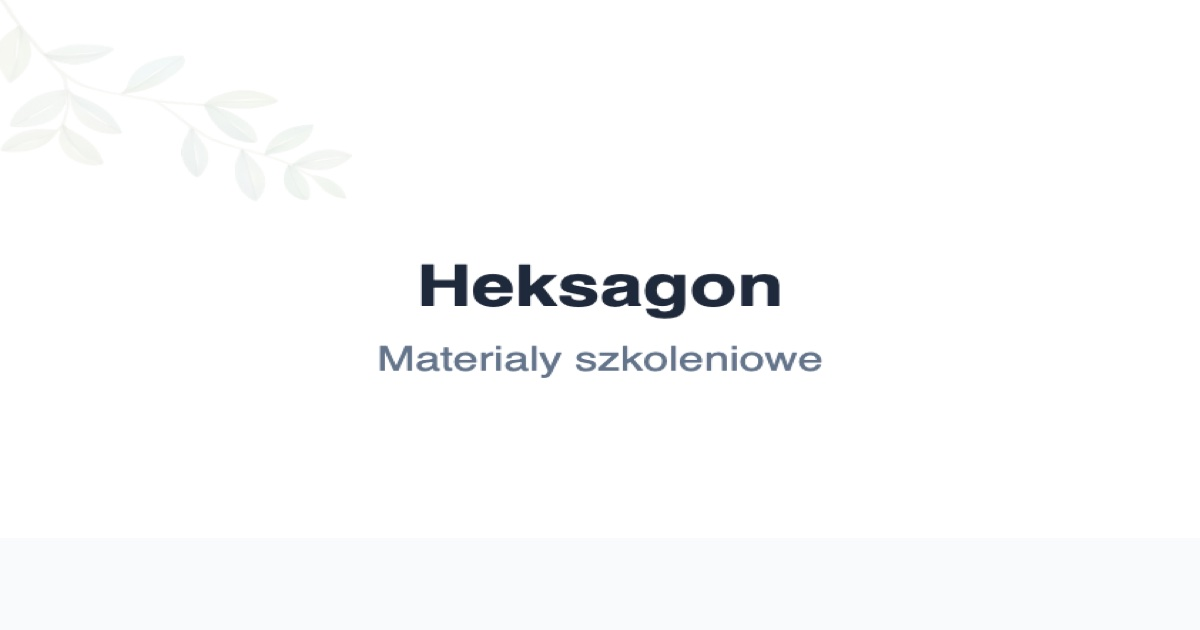
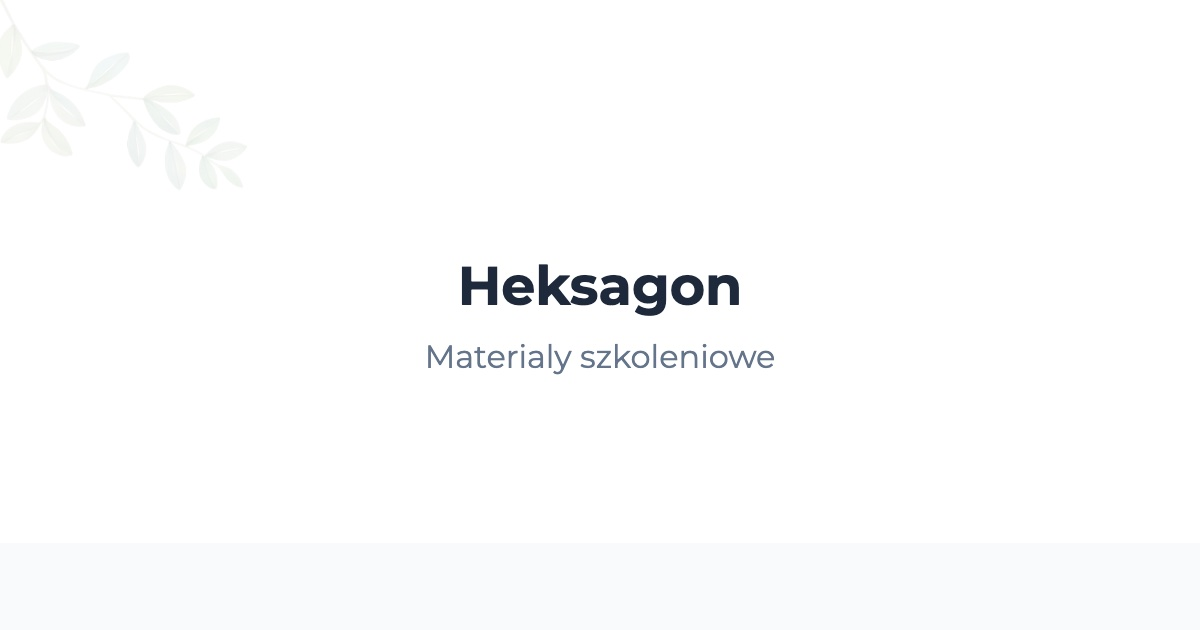
Popraw proporcje social preview (1200x630 natywnie)

Changed region(s): [[0.3083, 0.5429, 0.6783, 0.6032], [0.3392, 0.4222, 0.6475, 0.5127]]

diff --git a/social-preview.html b/social-preview.html
@@ -27,8 +27,8 @@
         }
 
         .preview-container {
-            width: 842px;
-            height: 595px;
+            width: 1200px;
+            height: 630px;
             background: white;
             position: relative;
             overflow: hidden;
